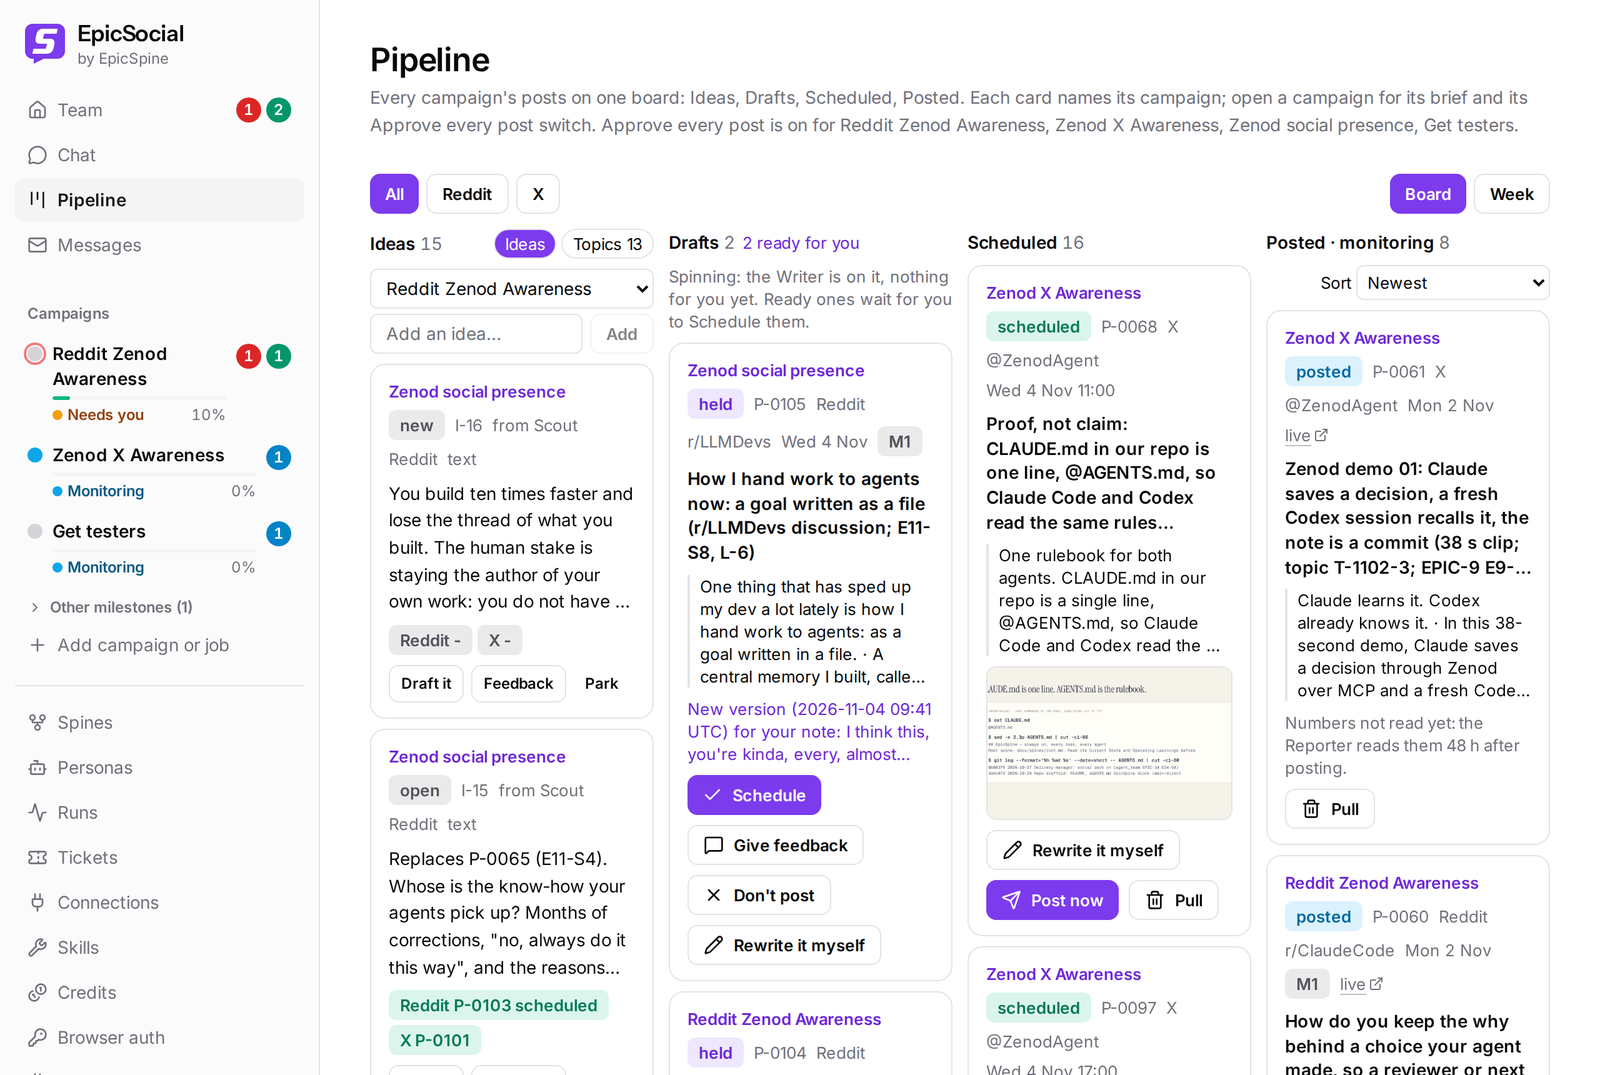
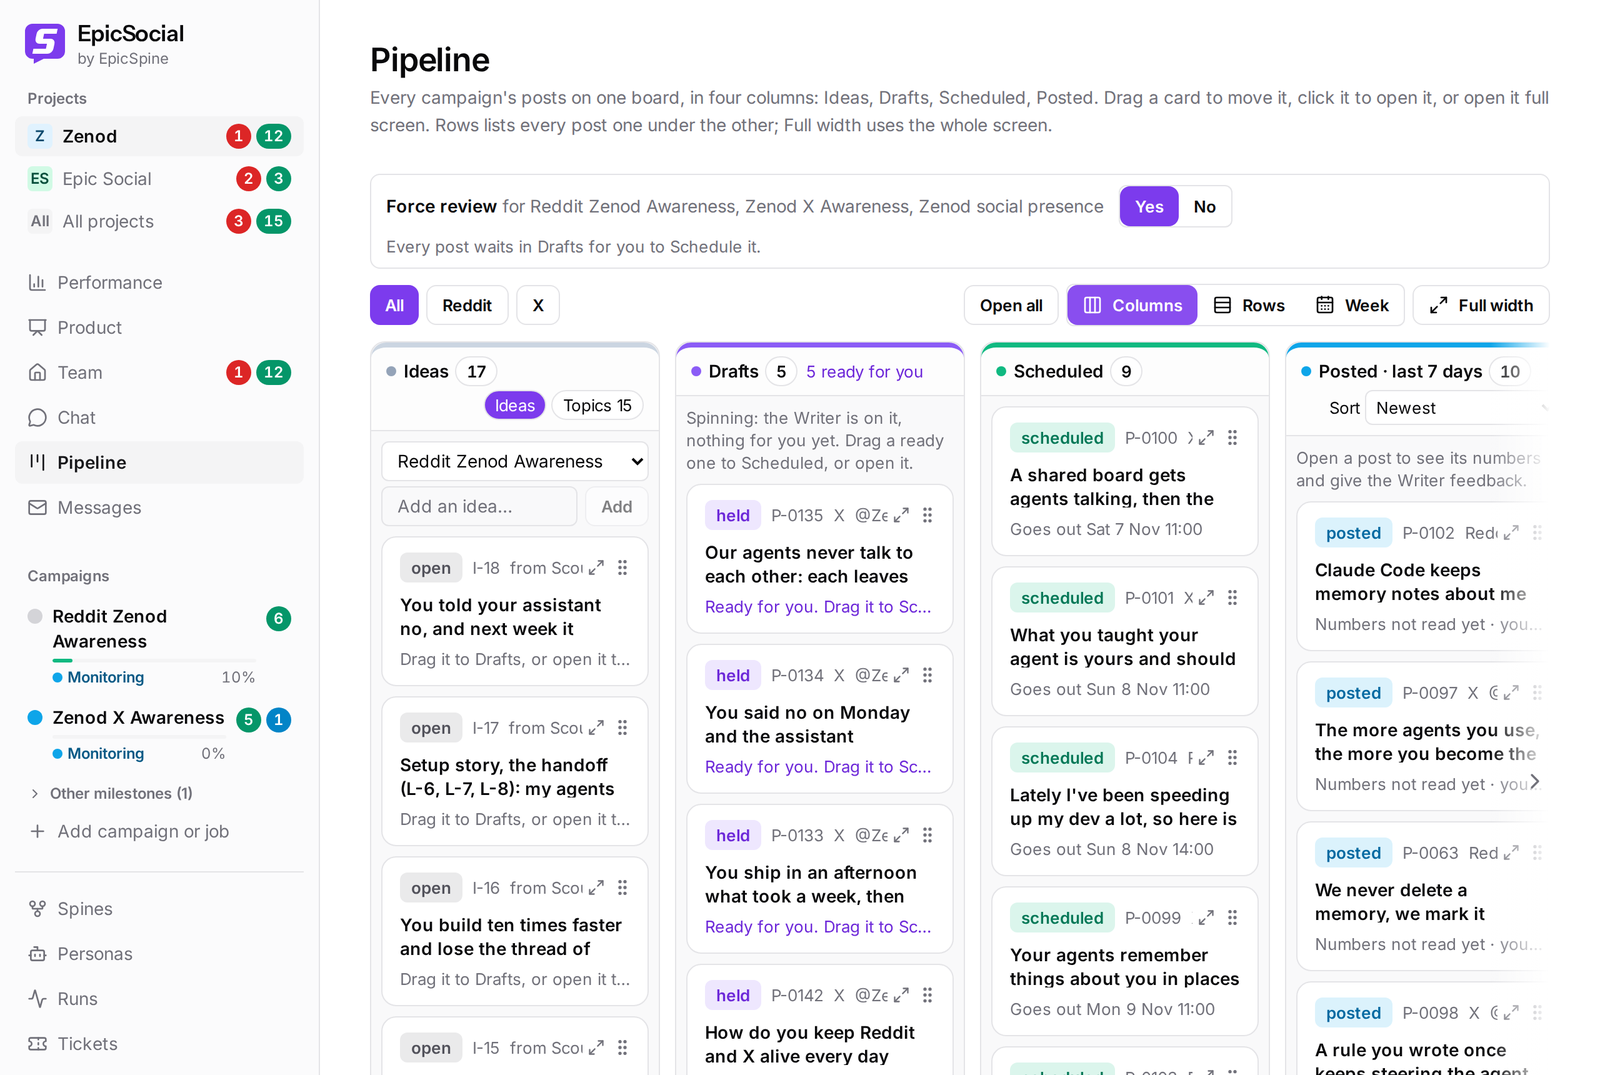
EpicSocial testers page: the Pipeline screen retaken on the new Pipeline (agent_team E46-S13 round 2)
Jordi's E46-A8 feedback (8 Nov): the Pipeline was confusing and overwhelming, columns not clearly columns. The new
Pipeline (agent_team 24abaa5a, live) has columns with a header and count each, the same height, a scroll cue, and
Rows, Week and Full width. Read-only capture of production social.alpha9.io 2026-11-08 01:08Z at 1280x860, 2x.
Image and its alt only; 887 tests OK, manifest unchanged.

Ready: yes
Run: run_15cc54a7-2bf3-4297-9ea7-0d9b6944d72a

diff --git a/testers/index.html b/testers/index.html
@@ -37,7 +37,7 @@
         </div>
       </div>
       <figure class="shot">
-        <img src="shots/pipeline.png" width="1600" height="1075" fetchpriority="high" alt="The EpicSocial pipeline on 4 November 2026: ideas, drafts waiting for approval with Schedule, Give feedback and Don't post, scheduled posts and posted ones with their numbers.">
+        <img src="shots/pipeline.png" width="1600" height="1075" fetchpriority="high" alt="The EpicSocial Pipeline on 8 November 2026: four columns, Ideas, Drafts, Scheduled and Posted, each with its count; drafts wait for you, and the board switches to Rows, Week or Full width.">
       </figure>
     </div>
   </section>
